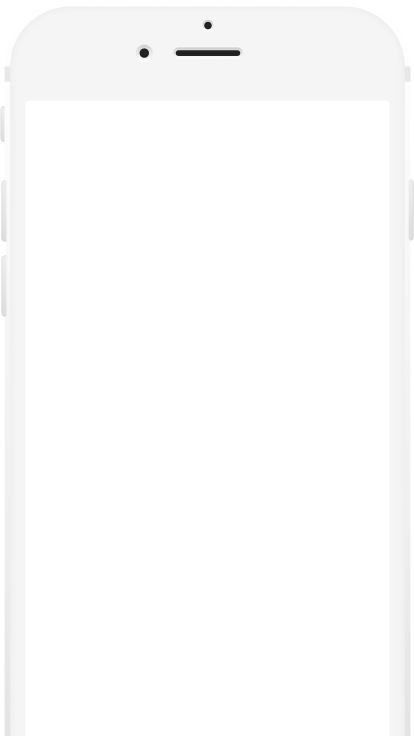
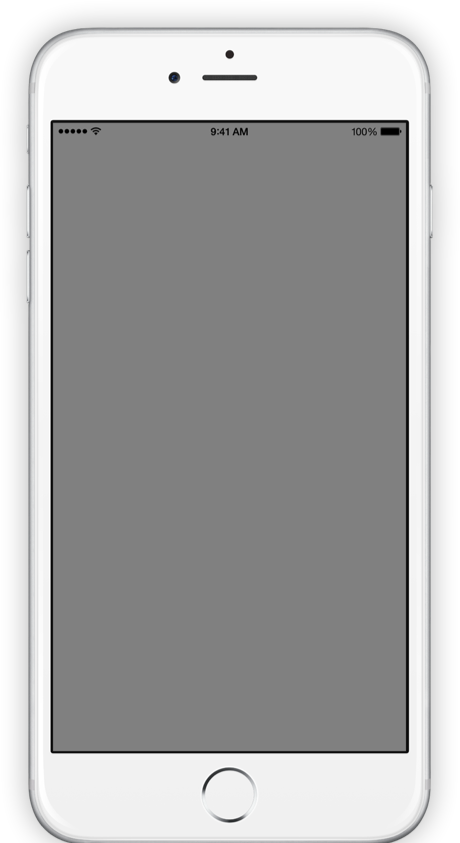
* New intro devices

diff --git a/www/css/ionic.app.css b/www/css/ionic.app.css
@@ -11139,17 +11139,27 @@ input::-webkit-input-placeholder, textarea::-webkit-input-placeholder {
         .view-intro .scroll-content .intro-slider .content .phone.iphone {
           background-image: url("../img/devices/iphone.png");
           background-repeat: no-repeat;
-          background-size: contain; }
+          background-size: contain;
+          width: 407px;
+          max-width: 407px; }
+          .view-intro .scroll-content .intro-slider .content .phone.iphone img {
+            display: block;
+            margin: 0 auto;
+            position: relative;
+            width: 79%;
+            top: 11.1%; }
         .view-intro .scroll-content .intro-slider .content .phone.android {
           background-image: url("../img/devices/android.png");
           background-repeat: no-repeat;
-          background-size: contain; }
-        .view-intro .scroll-content .intro-slider .content .phone img {
-          display: block;
-          margin: 0 auto;
-          position: relative;
-          width: 87%;
-          top: 8.7%; }
+          background-size: contain;
+          width: 376px;
+          max-width: 376px; }
+          .view-intro .scroll-content .intro-slider .content .phone.android img {
+            display: block;
+            margin: 0 auto;
+            position: relative;
+            width: 90%;
+            top: 8%; }
     .view-intro .scroll-content .intro-slider .slider {
       display: block;
       height: 100%;

diff --git a/scss/photogram/_intro.scss b/scss/photogram/_intro.scss
@@ -51,21 +51,34 @@
             background-image: url('../img/devices/iphone.png');
             background-repeat: no-repeat;
             background-size: contain;
+            width: 407px;
+            max-width: 407px;
+
+            img {
+              display: block;
+              margin: 0 auto;
+              position: relative;
+              width: 79%;
+              top: 11.1%;
+            }
           }
 
           &.android {
             background-image: url('../img/devices/android.png');
             background-repeat: no-repeat;
             background-size: contain;
+            width: 376px;
+            max-width: 376px;
+
+            img {
+              display: block;
+              margin: 0 auto;
+              position: relative;
+              width: 90%;
+              top: 8%;
+            }
           }
 
-          img {
-            display: block;
-            margin: 0 auto;
-            position: relative;
-            width: 87%;
-            top: 8.7%;
-          }
         }
       }
 

diff --git a/www/app/user/controller/user.intro.ctrl.js b/www/app/user/controller/user.intro.ctrl.js
@@ -20,11 +20,11 @@
                     img: 'img/intro1.jpg'
                 },
                 {
-                    top: gettextCatalog.getString('Follow your friends and relive'),
+                    top: gettextCatalog.getString('Follow your friends and relive their moments'),
                     img: 'img/intro2.jpg'
                 },
                 {
-                    top: gettextCatalog.getString('Find and follow people around'),
+                    top: gettextCatalog.getString('Find people around you and enjoy your photos'),
                     img: 'img/intro3.jpg'
                 },
                 {
